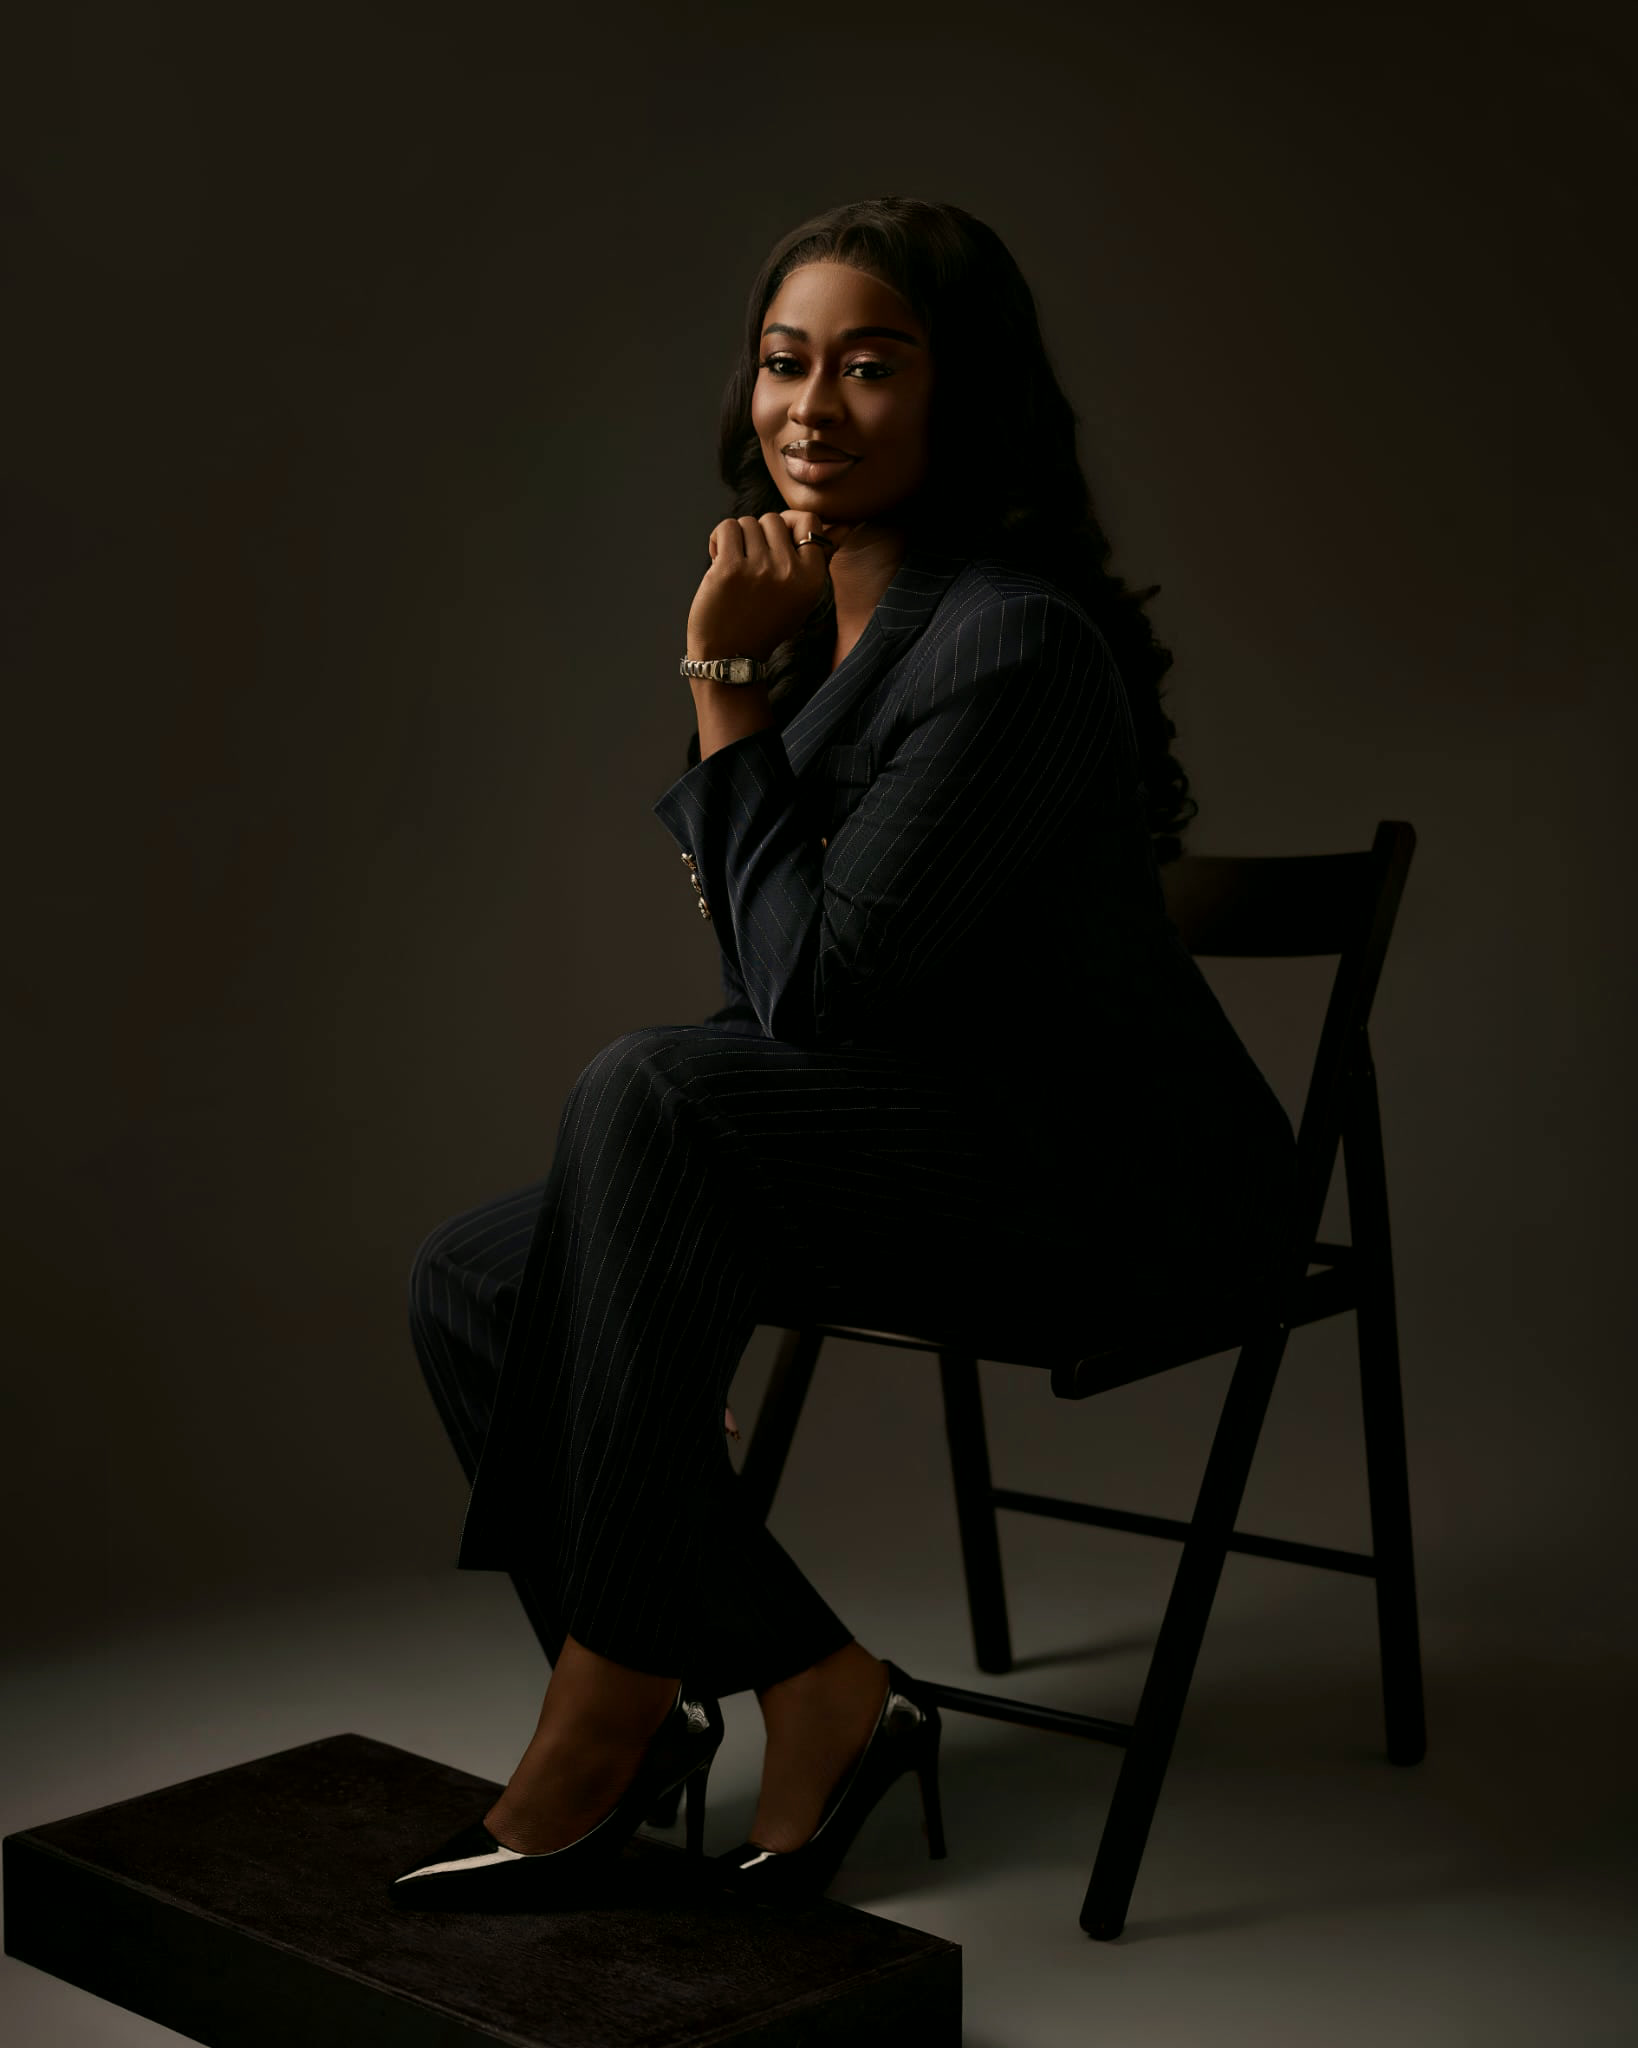
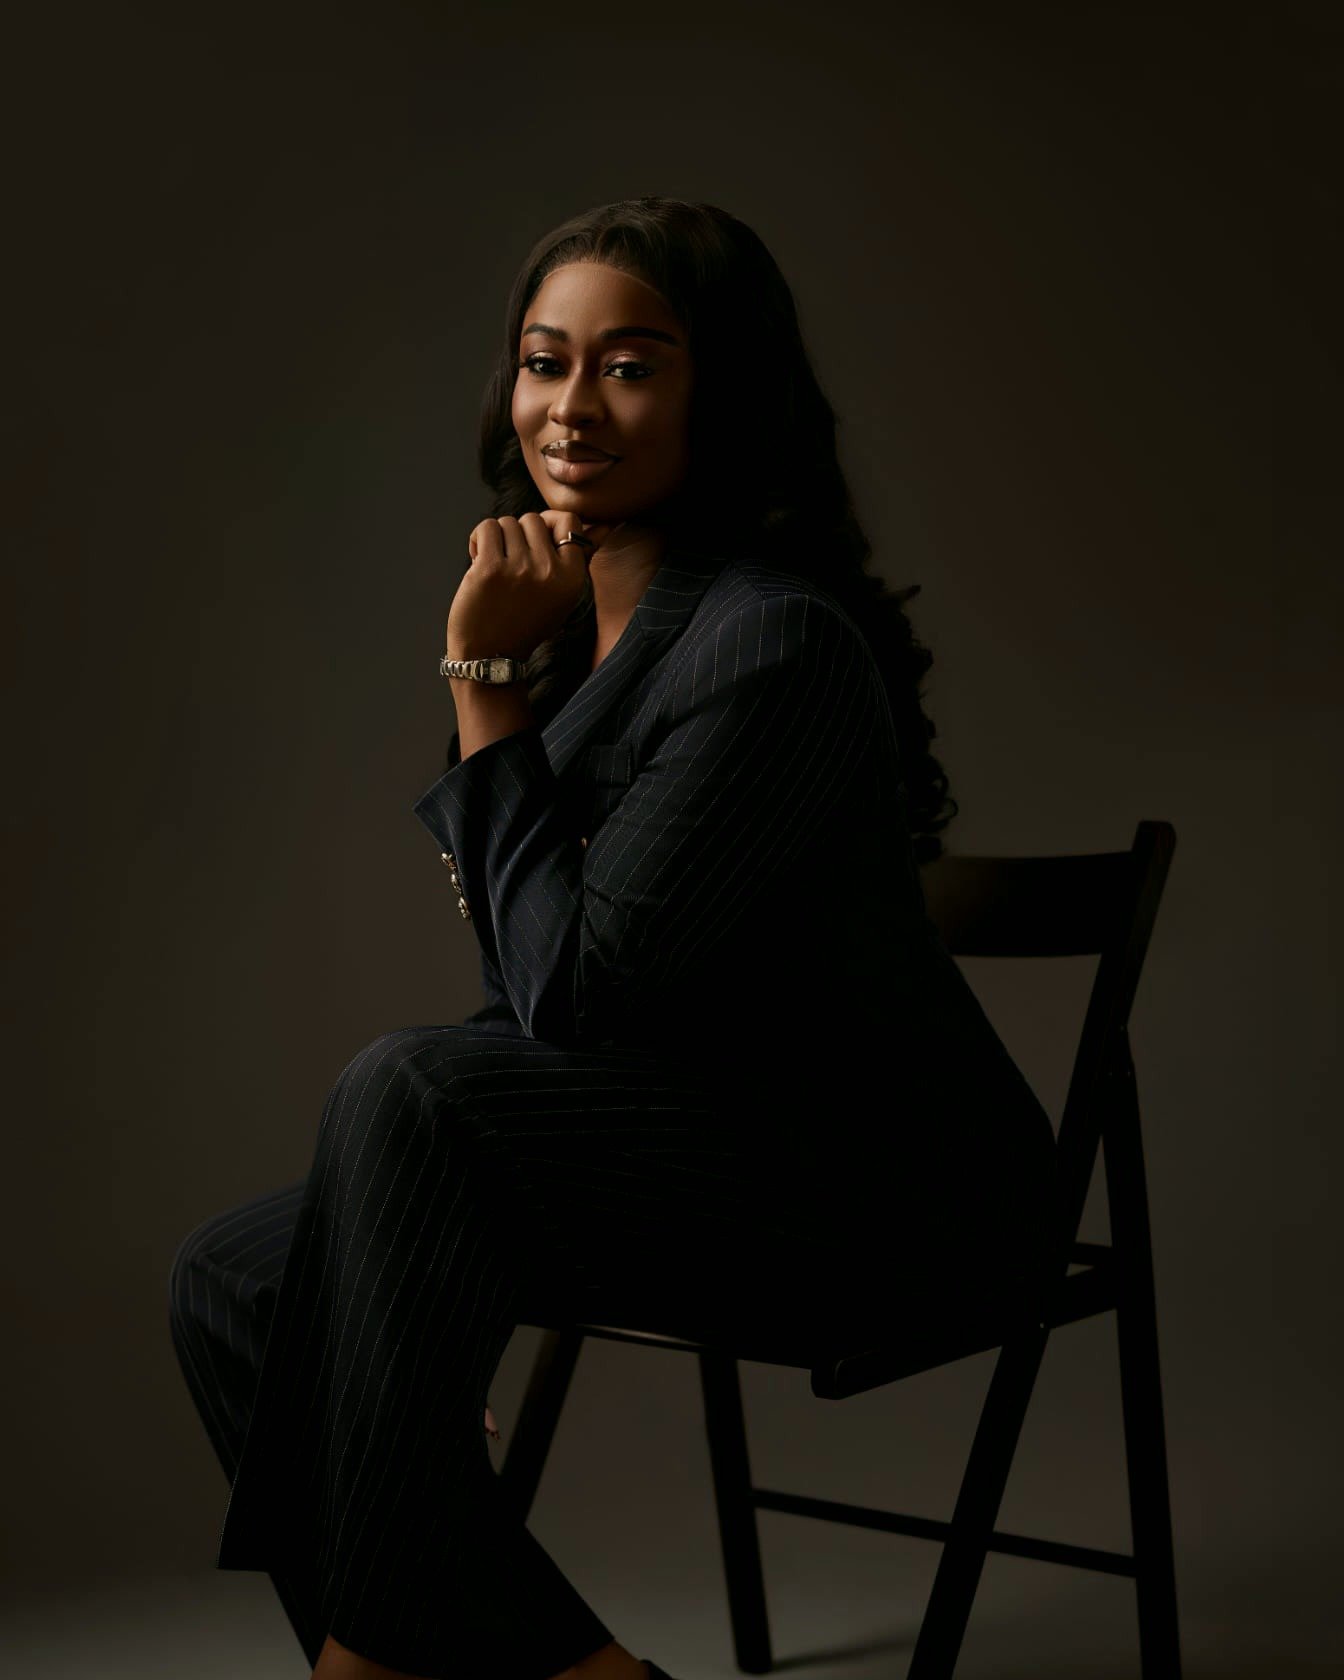
L'architecte : portrait d'Huguette, lien LinkedIn, photo assise recadrée
- Nouveau portrait (portraits/huguette.jpg) : page L'architecte et section de l'accueil
- Lien vers son profil LinkedIn (réglage modifiable dans l'administration)
- Photo assise du Vestibule recadrée : le support sous ses pieds n'apparaît plus

Claude-Session: https://claude.ai/code/session_01Q8XX2E8ohyVMbBM3PDqy2p

Changed region(s): [[0.0, 0.0929, 1.0, 1.0]]

diff --git a/keystatic.config.tsx b/keystatic.config.tsx
@@ -308,6 +308,7 @@ export default config({
         }),
         instagram: fields.url({ label: 'Lien Instagram' }),
         instagramHandle: ligne('Nom du compte Instagram', 'ex. @lecabinetpamojah'),
+        linkedin: fields.url({ label: 'LinkedIn d’Huguette' }),
         calendly: fields.url({ label: 'Lien de réservation Calendly', validation: { isRequired: true } }),
         signature: ligne('Signature', 'ex. « Confidentialité · Discernement · Exigence »'),
         avertissement: texte('Mention « non médical » (pied de page)'),

diff --git a/src/data/site.ts b/src/data/site.ts
@@ -11,6 +11,7 @@ export const site = {
   email: reglages.email,
   instagram: reglages.instagram,
   instagramHandle: reglages.instagramHandle,
+  linkedin: reglages.linkedin,
   calendly: reglages.calendly,
   // Aucun prix n'est affiché sur le site (décision de Sady, 18/09/2026).
   consultation: {
